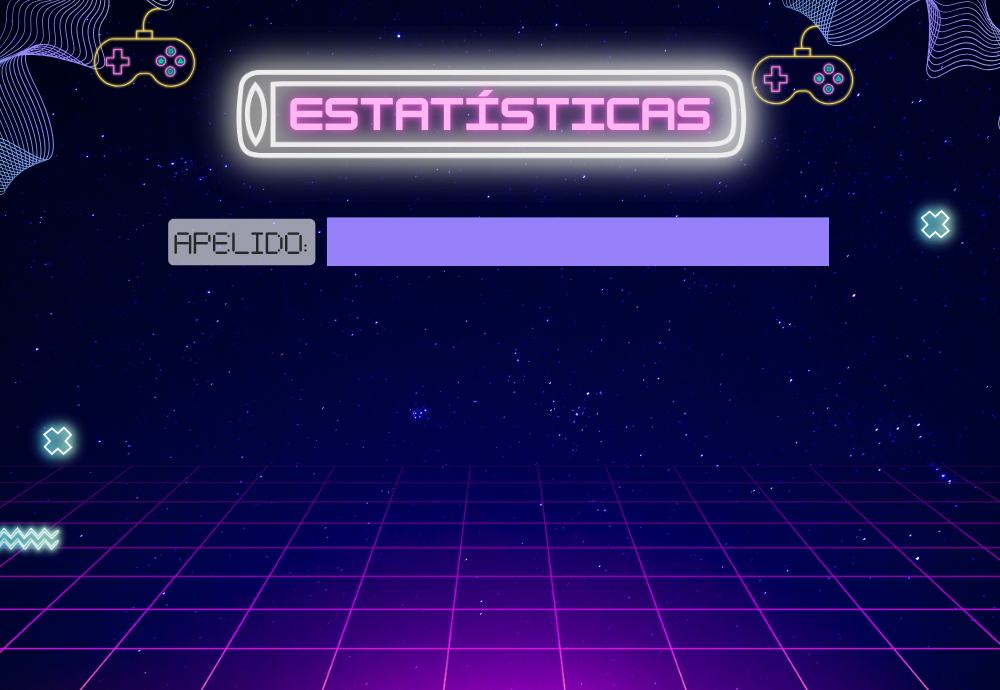
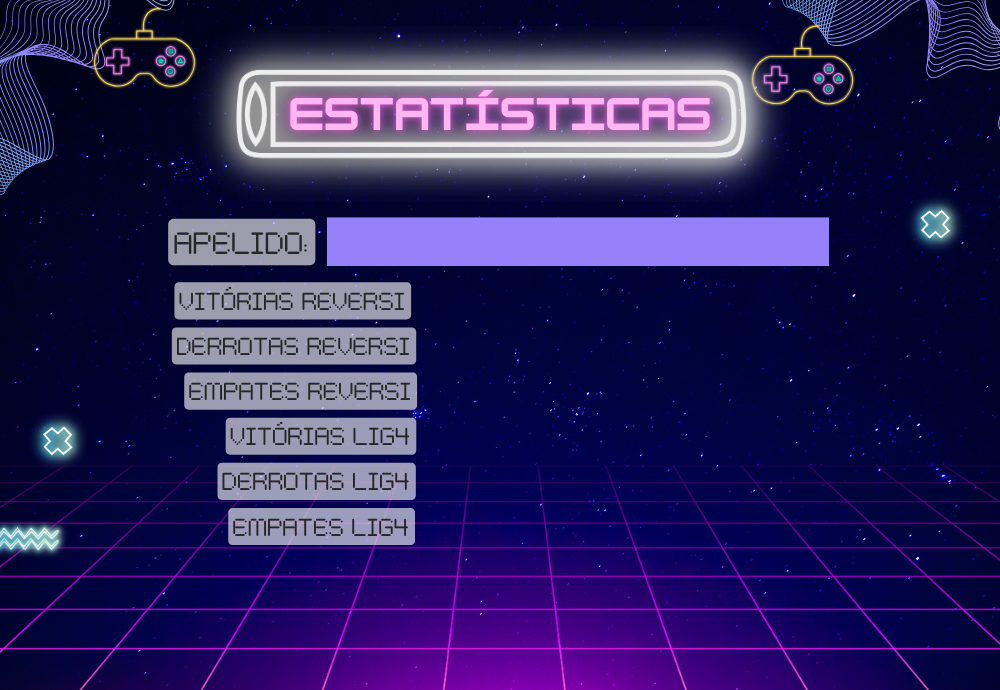
lista das estastiticas dos jogadores aparecendo

Changed region(s): [[0.155, 0.3957, 0.434, 0.7913]]

diff --git a/jogo/src/Telas.cpp b/jogo/src/Telas.cpp
@@ -170,6 +170,19 @@ TelaEstatisticas::TelaEstatisticas(sf::RenderWindow& window, sf::Font& fonte)
         botaoPesquisa.criarBotoes();
         botaoPesquisa.setCorHover(sf::Color(150, 129 - 50, 200,50)); //150, 129, 250 roxo padrao
     }
+void TelaEstatisticas::desenharTexto(const std::string& texto, float x, float y, float tamanho, sf::Color cor) {
+    sf::Text textoSFML;
+    textoSFML.setFont(fonte);
+    textoSFML.setString(texto);
+    textoSFML.setCharacterSize(tamanho);
+    textoSFML.setFillColor(cor);
+    textoSFML.setPosition(x, y);
+    window.draw(textoSFML);
+}
+
+void TelaEstatisticas::setJogador(const Jogador& jogador) {
+    this->jogador = jogador;
+}
 
 void TelaEstatisticas::desenharEstatisticas() {
     try {
@@ -184,7 +197,22 @@ void TelaEstatisticas::desenharEstatisticas() {
     botaoVoltar.desenhar(window);
     botaoPesquisa.desenhar(window);
     campoPesquisa.desenhar(window);
+
+    // Exibir as estatísticas do jogador, se houver dados
+    if (jogador.getNome() != "") { // Assumindo que o nome não pode ser vazio para um jogador válido
+        desenharTexto("Nome: " + jogador.getNome(), 50.f, 50.f, 24.f, sf::Color::Black);
+        desenharTexto("Apelido: " + jogador.getApelido(), 50.f, 100.f, 24.f, sf::Color::Black);
+        desenharTexto("Vitorias Reversi: " + std::to_string(jogador.getVitoriasReversi()), 50.f, 150.f, 24.f, sf::Color::Black);
+        desenharTexto("Derrotas Reversi: " + std::to_string(jogador.getDerrotasReversi()), 50.f, 200.f, 24.f, sf::Color::Black);
+        desenharTexto("Empates Reversi: " + std::to_string(jogador.getEmpatesReversi()), 50.f, 250.f, 24.f, sf::Color::Black);
+        desenharTexto("Vitorias Lig4: " + std::to_string(jogador.getVitoriasLig4()), 50.f, 300.f, 24.f, sf::Color::Black);
+        desenharTexto("Derrotas Lig4: " + std::to_string(jogador.getDerrotasLig4()), 50.f, 350.f, 24.f, sf::Color::Black);
+        desenharTexto("Empates Lig4: " + std::to_string(jogador.getEmpatesLig4()), 50.f, 400.f, 24.f, sf::Color::Black);
+    } else {
+        desenharTexto("Nenhum jogador selecionado.", 327.f, 200.f, 15.f, sf::Color::Red);
+    }
 }
+
 
 
 FimDeJogoLig4::FimDeJogoLig4(sf::RenderWindow& window, sf::Font& fonte) : window(window), fonte(fonte),

diff --git a/jogo/src/jogo_principal.cpp b/jogo/src/jogo_principal.cpp
@@ -199,12 +199,16 @@ int main() {
 
                     //Logica para mostrar estatisticas
                     if(telaEstat.botaoPesquisa.foiClicado(window)){
+                        std::string nomeJogador = telaEstat.campoPesquisa.obterTexto();
                         Jogador* estatisticaJogador = new Jogador(telaEstat.campoPesquisa.obterTexto());
                         if(estatisticaJogador->existeConta()){
                             estatisticaJogador->getResultado();
+                            telaEstat.setJogador(*estatisticaJogador);
                         }else{
                             std::cout << "Erro! Conta nao existente!" <<std::endl;
                         }
+
+                        delete estatisticaJogador;
                     }
             }
             //agora se sabe q deu enter nos dois campos e tem condição pra comparar se sao validos

diff --git a/jogo/include/Telas.hpp b/jogo/include/Telas.hpp
@@ -8,6 +8,7 @@
 #include "../include/Wallpaper.hpp"
 #include "../include/Interacao.hpp"
 #include "../include/Historico.hpp"
+#include "../include/Jogador.hpp"
 
 class TelaMenu {
     private:
@@ -89,8 +90,11 @@ class TelaEstatisticas {
         Botao botaoVoltar;
         Botao botaoPesquisa;
         CampoTexto campoPesquisa;
+        Jogador jogador;
 
         TelaEstatisticas(sf::RenderWindow& window, sf::Font& fonte);
+        void desenharTexto(const std::string& texto, float x, float y, float tamanho, sf::Color cor);
+        void setJogador(const Jogador& jogador);
         void desenharEstatisticas();
 };
 

diff --git a/jogo/src/Jogador.cpp b/jogo/src/Jogador.cpp
@@ -217,3 +217,27 @@ bool Jogador::existeConta(){
         return false;
     }
 }
+
+int Jogador::getVitoriasReversi() const {
+    return vitorias_reversi;
+}
+
+int Jogador::getDerrotasReversi() const {
+    return derrotas_reversi;
+}
+
+int Jogador::getEmpatesReversi() const {
+    return empates_reversi;
+}
+
+int Jogador::getVitoriasLig4() const {
+    return vitorias_lig4;
+}
+
+int Jogador::getDerrotasLig4() const {
+    return derrotas_lig4;
+}
+
+int Jogador::getEmpatesLig4() const {
+    return empates_lig4;
+}

diff --git a/jogo/include/Jogador.hpp b/jogo/include/Jogador.hpp
@@ -37,8 +37,15 @@ class Jogador{
         void setResultado(std::string _nome_do_jogo, std::string ganhador, std::string perdedor,bool empatou);
         void getResultado(); 
         void excluirConta();  
-
         bool existeConta();
+
+        int getVitoriasReversi() const;
+        int getDerrotasReversi() const;
+        int getEmpatesReversi() const;
+
+        int getVitoriasLig4() const;
+        int getDerrotasLig4() const;
+        int getEmpatesLig4() const;
 
 }; 
 
